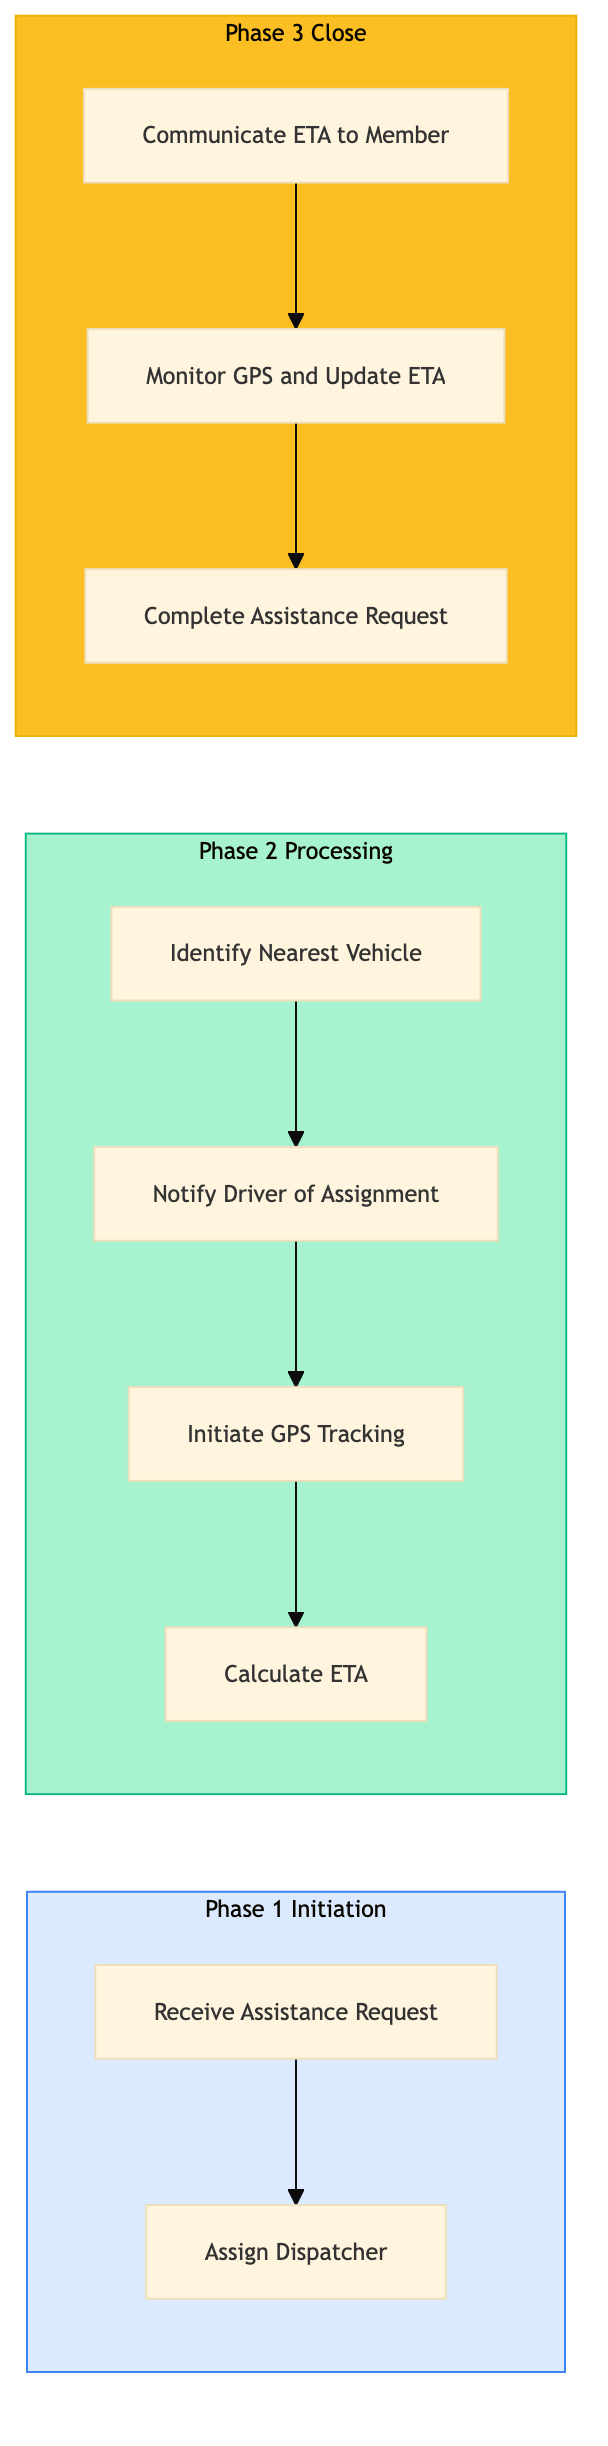
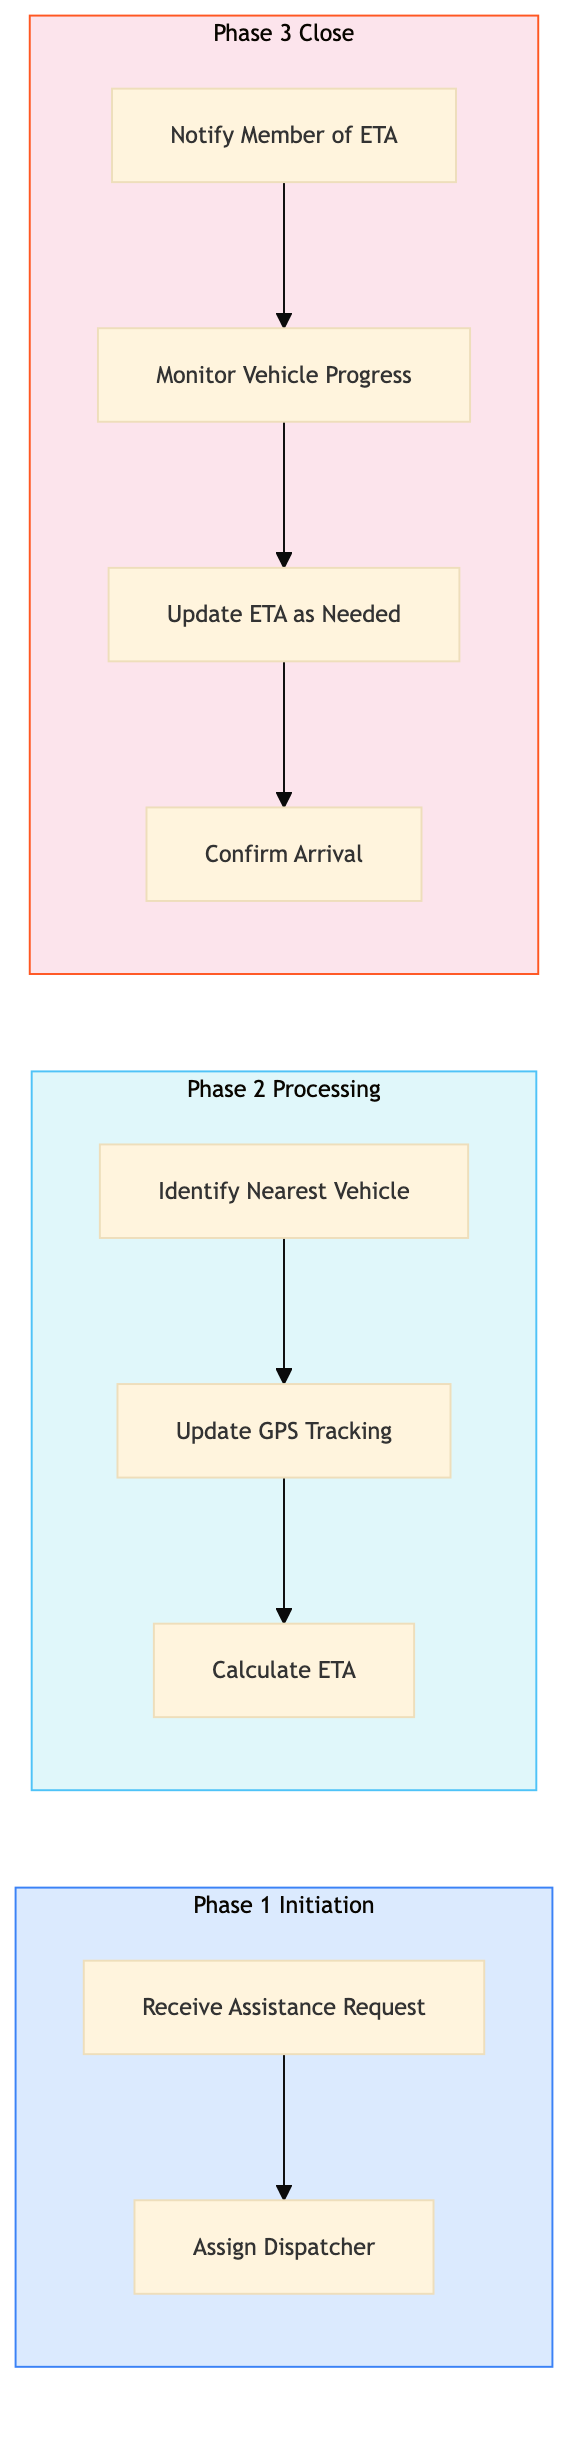
feat: add SHARED-RS-DI-05 — Real-Time GPS Tracking and ETA Communication to Member

diff --git a/shared-roadside/roadside-dispatch/shared-rs-di-05.html b/shared-roadside/roadside-dispatch/shared-rs-di-05.html
@@ -23,40 +23,16 @@
     <div class="nav-l2-group">
       <a class="nav-l2-title" href="../../shared-membership/membership-enrolment/index.html">Membership Enrolment & Sales</a>
       <div class="nav-l3-list">
-        <a class="nav-l3" href="../../shared-membership/membership-enrolment/shared-mb-en-01.html">SHARED-MB-EN-01 &mdash; New Member Walk-In Enrolment (Branch)</a>
-        <a class="nav-l3" href="../../shared-membership/membership-enrolment/shared-mb-en-02.html">SHARED-MB-EN-02 &mdash; Online Membership Self-Enrolment (Web/Ap</a>
-        <a class="nav-l3" href="../../shared-membership/membership-enrolment/shared-mb-en-03.html">SHARED-MB-EN-03 &mdash; Phone Enrolment via Contact Centre</a>
-        <a class="nav-l3" href="../../shared-membership/membership-enrolment/shared-mb-en-04.html">SHARED-MB-EN-04 &mdash; Affiliate and Employer Group Enrolment</a>
-        <a class="nav-l3" href="../../shared-membership/membership-enrolment/shared-mb-en-05.html">SHARED-MB-EN-05 &mdash; Membership Tier Selection and Upsell</a>
-        <a class="nav-l3" href="../../shared-membership/membership-enrolment/shared-mb-en-06.html">SHARED-MB-EN-06 &mdash; Payment Processing and First-Year Billin</a>
-        <a class="nav-l3" href="../../shared-membership/membership-enrolment/shared-mb-en-07.html">SHARED-MB-EN-07 &mdash; Welcome Kit and Digital Card Issuance</a>
-        <a class="nav-l3" href="../../shared-membership/membership-enrolment/shared-mb-en-08.html">SHARED-MB-EN-08 &mdash; Duplicate Member Detection and Merge</a>
       </div>
     </div>
     <div class="nav-l2-group">
       <a class="nav-l2-title" href="../../shared-membership/membership-renewal/index.html">Membership Renewal & Retention</a>
       <div class="nav-l3-list">
-        <a class="nav-l3" href="../../shared-membership/membership-renewal/shared-mb-rn-01.html">SHARED-MB-RN-01 &mdash; Annual Renewal Notice Generation and Dis</a>
-        <a class="nav-l3" href="../../shared-membership/membership-renewal/shared-mb-rn-02.html">SHARED-MB-RN-02 &mdash; Auto-Renewal Processing (Credit Card on </a>
-        <a class="nav-l3" href="../../shared-membership/membership-renewal/shared-mb-rn-03.html">SHARED-MB-RN-03 &mdash; Lapsed Member Reinstatement Campaign</a>
-        <a class="nav-l3" href="../../shared-membership/membership-renewal/shared-mb-rn-04.html">SHARED-MB-RN-04 &mdash; Membership Upgrade and Tier Change Proce</a>
-        <a class="nav-l3" href="../../shared-membership/membership-renewal/shared-mb-rn-05.html">SHARED-MB-RN-05 &mdash; Associate and Household Member Add-On Pr</a>
-        <a class="nav-l3" href="../../shared-membership/membership-renewal/shared-mb-rn-06.html">SHARED-MB-RN-06 &mdash; Cancellation Request Handling and Save O</a>
-        <a class="nav-l3" href="../../shared-membership/membership-renewal/shared-mb-rn-07.html">SHARED-MB-RN-07 &mdash; Renewal Rate Review and Pricing Update</a>
-        <a class="nav-l3" href="../../shared-membership/membership-renewal/shared-mb-rn-08.html">SHARED-MB-RN-08 &mdash; Membership Winback Campaign (12-36 Month</a>
       </div>
     </div>
     <div class="nav-l2-group">
       <a class="nav-l2-title" href="../../shared-membership/member-services/index.html">Member Services & Benefits</a>
       <div class="nav-l3-list">
-        <a class="nav-l3" href="../../shared-membership/member-services/shared-mb-sv-01.html">SHARED-MB-SV-01 &mdash; Member Discount Partner Redemption</a>
-        <a class="nav-l3" href="../../shared-membership/member-services/shared-mb-sv-02.html">SHARED-MB-SV-02 &mdash; Passport Photo Service Delivery (Branch)</a>
-        <a class="nav-l3" href="../../shared-membership/member-services/shared-mb-sv-03.html">SHARED-MB-SV-03 &mdash; International Driving Permit (IDP) Proce</a>
-        <a class="nav-l3" href="../../shared-membership/member-services/shared-mb-sv-04.html">SHARED-MB-SV-04 &mdash; Notary and Document Authentication Servi</a>
-        <a class="nav-l3" href="../../shared-membership/member-services/shared-mb-sv-05.html">SHARED-MB-SV-05 &mdash; Member Portal Profile and Preferences Ma</a>
-        <a class="nav-l3" href="../../shared-membership/member-services/shared-mb-sv-06.html">SHARED-MB-SV-06 &mdash; Lost and Stolen Membership Card Replacem</a>
-        <a class="nav-l3" href="../../shared-membership/member-services/shared-mb-sv-07.html">SHARED-MB-SV-07 &mdash; Member Data Privacy Request (CCPA and PI</a>
-        <a class="nav-l3" href="../../shared-membership/member-services/shared-mb-sv-08.html">SHARED-MB-SV-08 &mdash; Member Satisfaction Survey and NPS Track</a>
       </div>
     </div>
   </div>
@@ -350,7 +326,7 @@
           <span class="pid-badge org-badge-shared">SHARED</span>
           SHARED-RS-DI-05 &mdash; Real-Time GPS Tracking and ETA Communication to Member
         </h1>
-        <p>This process involves receiving a request for roadside assistance and providing real-time GPS tracking and estimated time of arrival (ETA) communication to the member.</p>
+        <p>This process involves dispatching roadside assistance to AAA Northeast members in real-time using GPS tracking and providing estimated time of arrival (ETA) communication.</p>
       </div>
 
       <!-- BPMN Diagram -->
@@ -376,10 +352,10 @@
             <tr><th>L1 Domain</th><td>Roadside Assistance</td></tr>
             <tr><th>L2 Process</th><td>Dispatch Operations</td></tr>
             <tr><th>L3 Name</th><td>Real-Time GPS Tracking and ETA Communication to Member</td></tr>
-            <tr><th>Trigger</th><td>A member initiates a roadside assistance request through the AAA App or by contacting customer service.</td></tr>
-            <tr><th>Outcome</th><td>The member receives continuous updates on the location and ETA of the dispatched vehicle, ensuring timely assistance.</td></tr>
-            <tr><th>Org Notes</th><td>CAA SCO uses CAA Connect telematics for GPS tracking, whereas AAA Northeast uses DriveAssist telematics. Additionally, CAA SCO has a different regulatory environment (FSRA) that may impact communication protocols.</td></tr>
-            <tr><th>Systems</th><td><span class="sys-tag sap">SAP S/4HANA</span> <span class="sys-tag agero">Agero Swoop dispatch</span> <span class="sys-tag driveassist">DriveAssist telematics</span> <span class="sys-tag aaa-app">AAA App</span></td></tr>
+            <tr><th>Trigger</th><td>A member requests roadside assistance through the AAA App or by contacting AAA directly.</td></tr>
+            <tr><th>Outcome</th><td>The member receives real-time GPS tracking updates and an accurate ETA for the arriving assistance vehicle.</td></tr>
+            <tr><th>Org Notes</th><td>CAA SCO uses CAA MyCAA App instead of AAA App, and has different regulatory requirements due to FSRA oversight.</td></tr>
+            <tr><th>Systems</th><td><span class="sys-tag aaa-app">AAA App</span> <span class="sys-tag sap">SAP S/4HANA</span> <span class="sys-tag agero">Agero Swoop dispatch system</span> <span class="sys-tag driveassist">DriveAssist telematics system</span></td></tr>
           </table>
         </div>
       </div>
@@ -402,9 +378,9 @@
           <td class="step-num">1.1</td>
           <td>Receive Assistance Request</td>
           <td>Roadside Assistance Dispatcher</td>
-          <td><span class="sys-tag sap">SAP S/4HANA</span></td>
-          <td>Member request via AAA App or call center</td>
-          <td>Dispatch ticket created in SAP S/4HANA</td>
+          <td><span class="sys-tag aaa-app">AAA App / CAA MyCAA App</span></td>
+          <td>Member assistance request</td>
+          <td>Dispatch ticket created</td>
           <td>Response time to dispatch ticket creation < 30 seconds</td>
           <td>Delayed response times affecting member satisfaction</td>
           <td>N</td>
@@ -416,9 +392,9 @@
           <td>Roadside Assistance Dispatcher</td>
           <td><span class="sys-tag sap">SAP S/4HANA</span></td>
           <td>Dispatch ticket</td>
-          <td>Dispatcher assigned to the request</td>
-          <td>Assignment time < 60 seconds</td>
-          <td>Inefficient dispatcher assignment leading to longer wait times</td>
+          <td>Dispatcher assigned to the ticket</td>
+          <td>Ticket assignment within 5 seconds</td>
+          <td>Overloaded dispatchers leading to delayed assignments</td>
           <td>N</td>
           <td><span class="exception-y">Y</span></td>
         </tr>
@@ -426,83 +402,83 @@
           <td class="step-num">2.1</td>
           <td>Identify Nearest Vehicle</td>
           <td>Roadside Assistance Dispatcher</td>
-          <td><span class="sys-tag agero">Agero Swoop dispatch</span></td>
-          <td>Dispatcher's location and request details</td>
-          <td>Nearest available vehicle information</td>
-          <td>Vehicle identification time < 2 minutes</td>
-          <td>Difficulty finding nearby vehicles affecting response times</td>
+          <td><span class="sys-tag agero">Agero Swoop dispatch system</span></td>
+          <td>Dispatcher assignment</td>
+          <td>Nearest available vehicle details</td>
+          <td>Vehicle identification within 10 seconds</td>
+          <td>Inaccurate vehicle location data</td>
           <td>N</td>
           <td><span class="exception-y">Y</span></td>
         </tr>
         <tr>
           <td class="step-num">2.2</td>
-          <td>Notify Driver of Assignment</td>
+          <td>Update GPS Tracking</td>
           <td>Roadside Assistance Dispatcher</td>
-          <td><span class="sys-tag agero">Agero Swoop dispatch</span></td>
-          <td>Nearest vehicle information</td>
-          <td>Driver notified and dispatched</td>
-          <td>Notification time < 1 minute</td>
-          <td>Delayed notifications to drivers causing delays</td>
+          <td><span class="sys-tag driveassist">DriveAssist telematics system</span></td>
+          <td>Nearest available vehicle details</td>
+          <td>Real-time GPS tracking updates</td>
+          <td>GPS update frequency > 10 seconds</td>
+          <td>Interruptions in GPS signal</td>
           <td>N</td>
           <td><span class="exception-y">Y</span></td>
         </tr>
         <tr>
           <td class="step-num">2.3</td>
-          <td>Initiate GPS Tracking</td>
-          <td>Roadside Assistance Dispatcher</td>
-          <td><span class="sys-tag driveassist">DriveAssist telematics (AAA) / CAA Connect telematics (CAA SCO)</span></td>
-          <td>Driver's vehicle information</td>
-          <td>Real-time GPS tracking initiated</td>
-          <td>Tracking initiation time < 30 seconds</td>
-          <td>Failed GPS tracking causing communication gaps</td>
-          <td>N</td>
-          <td><span class="exception-y">Y</span></td>
-        </tr>
-        <tr>
-          <td class="step-num">2.4</td>
           <td>Calculate ETA</td>
           <td>Roadside Assistance Dispatcher</td>
-          <td><span class="sys-tag driveassist">DriveAssist telematics (AAA) / CAA Connect telematics (CAA SCO)</span></td>
-          <td>Driver's current location and destination</td>
-          <td>ETA calculation</td>
-          <td>ETA calculation time < 1 minute</td>
-          <td>Inaccurate ETA calculations leading to member dissatisfaction</td>
+          <td><span class="sys-tag driveassist">DriveAssist telematics system</span></td>
+          <td>Real-time GPS tracking updates</td>
+          <td>ETA communication to member</td>
+          <td>ETA accuracy within 5 minutes</td>
+          <td>Incorrect ETA calculations</td>
           <td>N</td>
           <td><span class="exception-y">Y</span></td>
         </tr>
         <tr>
           <td class="step-num">3.1</td>
-          <td>Communicate ETA to Member</td>
+          <td>Notify Member of ETA</td>
           <td>Roadside Assistance Dispatcher</td>
           <td><span class="sys-tag aaa-app">AAA App / CAA MyCAA App</span></td>
-          <td>ETA calculation</td>
-          <td>Member notified of ETA</td>
-          <td>Communication time < 10 seconds</td>
-          <td>Failed communication attempts to members</td>
+          <td>ETA communication</td>
+          <td>Member notification</td>
+          <td>Notification sent within 2 seconds</td>
+          <td>Failed notifications due to app issues</td>
           <td>N</td>
           <td><span class="exception-y">Y</span></td>
         </tr>
         <tr>
           <td class="step-num">3.2</td>
-          <td>Monitor GPS and Update ETA</td>
+          <td>Monitor Vehicle Progress</td>
           <td>Roadside Assistance Dispatcher</td>
-          <td><span class="sys-tag driveassist">DriveAssist telematics (AAA) / CAA Connect telematics (CAA SCO)</span></td>
-          <td>Real-time GPS data</td>
-          <td>Updated ETA communicated to member</td>
-          <td>Update frequency every 2 minutes</td>
-          <td>Inconsistent updates causing confusion for members</td>
+          <td><span class="sys-tag driveassist">DriveAssist telematics system</span></td>
+          <td>Real-time GPS tracking updates</td>
+          <td>Continuous monitoring of vehicle progress</td>
+          <td>Vehicle progress monitored every 10 seconds</td>
+          <td>Loss of telemetry data</td>
           <td>N</td>
           <td><span class="exception-y">Y</span></td>
         </tr>
         <tr>
           <td class="step-num">3.3</td>
-          <td>Complete Assistance Request</td>
+          <td>Update ETA as Needed</td>
           <td>Roadside Assistance Dispatcher</td>
-          <td><span class="sys-tag sap">SAP S/4HANA</span></td>
-          <td>Assistance completed by driver</td>
-          <td>Request closed in SAP S/4HANA</td>
-          <td>Closure time < 1 minute after assistance completion</td>
-          <td>Delayed closure affecting internal tracking</td>
+          <td><span class="sys-tag driveassist">DriveAssist telematics system</span></td>
+          <td>Real-time GPS tracking updates</td>
+          <td>Updated ETA communication to member</td>
+          <td>ETA update frequency > 1 minute</td>
+          <td>Frequent ETA changes causing confusion</td>
+          <td>N</td>
+          <td><span class="exception-y">Y</span></td>
+        </tr>
+        <tr>
+          <td class="step-num">3.4</td>
+          <td>Confirm Arrival</td>
+          <td>Roadside Assistance Dispatcher</td>
+          <td><span class="sys-tag driveassist">DriveAssist telematics system</span></td>
+          <td>Vehicle arrival confirmation</td>
+          <td>Arrival notification to member</td>
+          <td>Arrival notification sent within 1 minute of vehicle arrival</td>
+          <td>Delayed arrival notifications</td>
           <td>N</td>
           <td><span class="exception-y">Y</span></td>
         </tr>
@@ -517,9 +493,9 @@
         <div class="card-header">&#x1F4CA; KPIs &amp; Risk Register</div>
         <div class="card-body">
           <p class="mb-8"><strong>KPIs</strong></p>
-          <div class="kpi-list mb-8"><span class="kpi-pill">Response time to dispatch ticket creation < 30 seconds</span> <span class="kpi-pill">Assignment time < 60 seconds</span> <span class="kpi-pill">Vehicle identification time < 2 minutes</span> <span class="kpi-pill">Notification time < 1 minute</span> <span class="kpi-pill">Tracking initiation time < 30 seconds</span></div>
+          <div class="kpi-list mb-8"><span class="kpi-pill">Response time to dispatch ticket creation < 30 seconds</span> <span class="kpi-pill">Ticket assignment within 5 seconds</span> <span class="kpi-pill">Vehicle identification within 10 seconds</span> <span class="kpi-pill">GPS update frequency > 10 seconds</span> <span class="kpi-pill">ETA accuracy within 5 minutes</span> <span class="kpi-pill">Notification sent within 2 seconds</span> <span class="kpi-pill">Vehicle progress monitored every 10 seconds</span> <span class="kpi-pill">ETA update frequency > 1 minute</span> <span class="kpi-pill">Arrival notification sent within 1 minute of vehicle arrival</span></div>
           <p class="mb-8" style="margin-top:16px"><strong>Key Risks</strong></p>
-          <div class="kpi-list"><span class="risk-pill">Inaccurate GPS data leading to incorrect ETA calculations</span> <span class="risk-pill">Failed communication attempts to members</span> <span class="risk-pill">Delayed closure affecting internal tracking</span> <span class="risk-pill">Regulatory compliance issues due to different state regulations (CAA SCO)</span></div>
+          <div class="kpi-list"><span class="risk-pill">Delayed response times affecting member satisfaction</span> <span class="risk-pill">Overloaded dispatchers leading to delayed assignments</span> <span class="risk-pill">Inaccurate vehicle location data</span> <span class="risk-pill">Interruptions in GPS signal</span> <span class="risk-pill">Incorrect ETA calculations</span> <span class="risk-pill">Failed notifications due to app issues</span> <span class="risk-pill">Loss of telemetry data</span> <span class="risk-pill">Frequent ETA changes causing confusion</span> <span class="risk-pill">Delayed arrival notifications</span></div>
         </div>
       </div>
 

diff --git a/shared-roadside/roadside-dispatch/index.html b/shared-roadside/roadside-dispatch/index.html
@@ -162,6 +162,7 @@
         <a class="nav-l3" href="../../shared-roadside/roadside-dispatch/shared-rs-di-01.html">SHARED-RS-DI-01 &mdash; Member Call Intake and Coverage Verifica</a>
         <a class="nav-l3" href="../../shared-roadside/roadside-dispatch/shared-rs-di-02.html">SHARED-RS-DI-02 &mdash; Digital Request Intake (App and Web Self</a>
         <a class="nav-l3" href="../../shared-roadside/roadside-dispatch/shared-rs-di-03.html">SHARED-RS-DI-03 &mdash; Breakdown Type Classification and Servic</a>
+        <a class="nav-l3" href="../../shared-roadside/roadside-dispatch/shared-rs-di-04.html">SHARED-RS-DI-04 &mdash; Service Provider Dispatch via Agero Swoo</a>
       </div>
     </div>
     <div class="nav-l2-group">
@@ -318,7 +319,7 @@
           <a href="../index.html">Roadside Assistance</a>
         </div>
         <h1>🚨 Dispatch Operations</h1>
-        <p>3 of 8 processes complete</p>
+        <p>4 of 8 processes complete</p>
       </div>
       <div class="card">
         <div class="card-header">Process List</div>
@@ -328,7 +329,7 @@
             <tbody><tr><td><a href="shared-rs-di-01.html">SHARED-RS-DI-01</a></td><td>Member Call Intake and Coverage Verification</td><td><span style="color:#16a34a;font-weight:700">&#x2705; Complete</span></td></tr>
 <tr><td><a href="shared-rs-di-02.html">SHARED-RS-DI-02</a></td><td>Digital Request Intake (App and Web Self-Serve)</td><td><span style="color:#16a34a;font-weight:700">&#x2705; Complete</span></td></tr>
 <tr><td><a href="shared-rs-di-03.html">SHARED-RS-DI-03</a></td><td>Breakdown Type Classification and Service Code Assignment</td><td><span style="color:#16a34a;font-weight:700">&#x2705; Complete</span></td></tr>
-<tr><td>SHARED-RS-DI-04</td><td>Service Provider Dispatch via Agero Swoop</td><td><span style="color:#94a3b8">&#x23F3; Queued</span></td></tr>
+<tr><td><a href="shared-rs-di-04.html">SHARED-RS-DI-04</a></td><td>Service Provider Dispatch via Agero Swoop</td><td><span style="color:#16a34a;font-weight:700">&#x2705; Complete</span></td></tr>
 <tr><td>SHARED-RS-DI-05</td><td>Real-Time GPS Tracking and ETA Communication to Member</td><td><span style="color:#94a3b8">&#x23F3; Queued</span></td></tr>
 <tr><td>SHARED-RS-DI-06</td><td>Service Provider On-Scene Confirmation and Job Completion</td><td><span style="color:#94a3b8">&#x23F3; Queued</span></td></tr>
 <tr><td>SHARED-RS-DI-07</td><td>Post-Service Quality Survey (NPS)</td><td><span style="color:#94a3b8">&#x23F3; Queued</span></td></tr>

diff --git a/index.html b/index.html
@@ -162,6 +162,7 @@
         <a class="nav-l3" href="shared-roadside/roadside-dispatch/shared-rs-di-01.html">SHARED-RS-DI-01 &mdash; Member Call Intake and Coverage Verifica</a>
         <a class="nav-l3" href="shared-roadside/roadside-dispatch/shared-rs-di-02.html">SHARED-RS-DI-02 &mdash; Digital Request Intake (App and Web Self</a>
         <a class="nav-l3" href="shared-roadside/roadside-dispatch/shared-rs-di-03.html">SHARED-RS-DI-03 &mdash; Breakdown Type Classification and Servic</a>
+        <a class="nav-l3" href="shared-roadside/roadside-dispatch/shared-rs-di-04.html">SHARED-RS-DI-04 &mdash; Service Provider Dispatch via Agero Swoo</a>
       </div>
     </div>
     <div class="nav-l2-group">
@@ -318,11 +319,11 @@
       </div>
 
       <div class="stats-bar">
-        <div class="stat-card"><div class="stat-num">71</div><div class="stat-label">Processes Complete</div></div>
+        <div class="stat-card"><div class="stat-num">72</div><div class="stat-label">Processes Complete</div></div>
         <div class="stat-card"><div class="stat-num">268</div><div class="stat-label">Total Processes</div></div>
         <div class="stat-card"><div class="stat-num">34</div><div class="stat-label">AAA Complete</div></div>
         <div class="stat-card"><div class="stat-num caa-red">34</div><div class="stat-label">CAA Complete</div></div>
-        <div class="stat-card"><div class="stat-num">3</div><div class="stat-label">Shared Complete</div></div>
+        <div class="stat-card"><div class="stat-num">4</div><div class="stat-label">Shared Complete</div></div>
       </div>
 
       <div class="domain-grid">
@@ -356,7 +357,7 @@
         <span class="nav-org-dot shared" style="display:inline-block;margin-right:4px"></span>
         SHARED
       </p>
-      <p class="card-count">3 / 24 processes complete</p>
+      <p class="card-count">4 / 24 processes complete</p>
     </div>
     <div class="domain-card org-shared">
       <h3><a href="shared-travel/index.html">✈ Travel Agency & Packages</a></h3>

diff --git a/shared-roadside/index.html b/shared-roadside/index.html
@@ -162,6 +162,7 @@
         <a class="nav-l3" href="../shared-roadside/roadside-dispatch/shared-rs-di-01.html">SHARED-RS-DI-01 &mdash; Member Call Intake and Coverage Verifica</a>
         <a class="nav-l3" href="../shared-roadside/roadside-dispatch/shared-rs-di-02.html">SHARED-RS-DI-02 &mdash; Digital Request Intake (App and Web Self</a>
         <a class="nav-l3" href="../shared-roadside/roadside-dispatch/shared-rs-di-03.html">SHARED-RS-DI-03 &mdash; Breakdown Type Classification and Servic</a>
+        <a class="nav-l3" href="../shared-roadside/roadside-dispatch/shared-rs-di-04.html">SHARED-RS-DI-04 &mdash; Service Provider Dispatch via Agero Swoo</a>
       </div>
     </div>
     <div class="nav-l2-group">
@@ -315,11 +316,11 @@
       <div class="page-header">
         <div class="breadcrumb"><a href="../index.html">Home</a></div>
         <h1>🚨 Roadside Assistance</h1>
-        <p>3 of 24 processes complete across 3 process groups</p>
+        <p>4 of 24 processes complete across 3 process groups</p>
       </div>
       <div class="domain-grid">    <div class="domain-card org-shared">
       <h3><a href="roadside-dispatch/index.html">Dispatch Operations</a></h3>
-      <p class="card-meta">3/8 processes complete</p>
+      <p class="card-meta">4/8 processes complete</p>
     </div>
     <div class="domain-card org-shared">
       <h3><a href="roadside-service-delivery/index.html">Roadside Service Delivery</a></h3>
